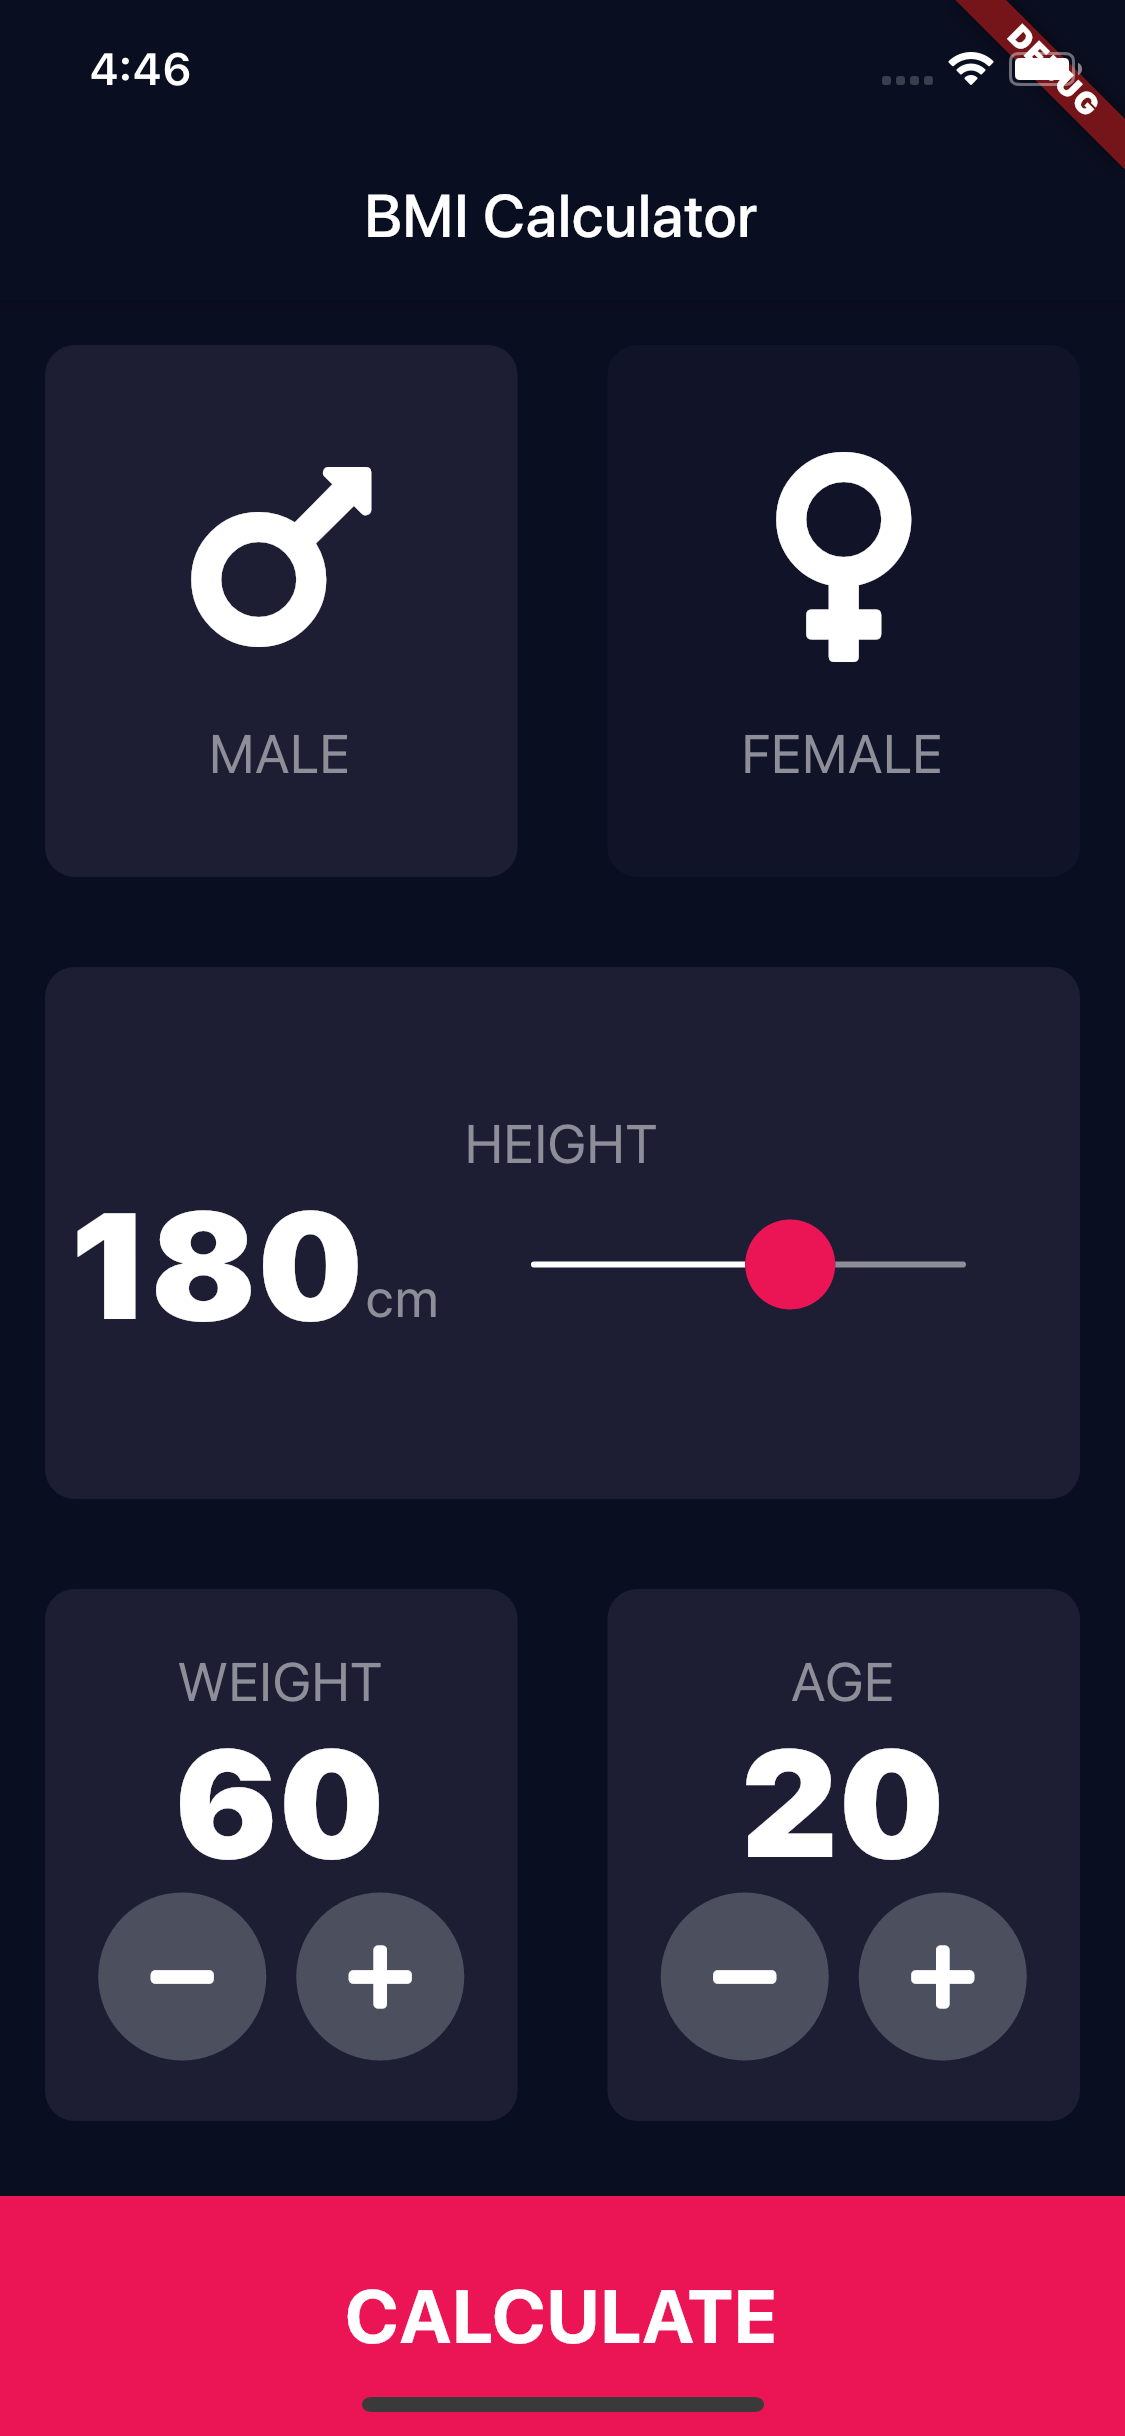
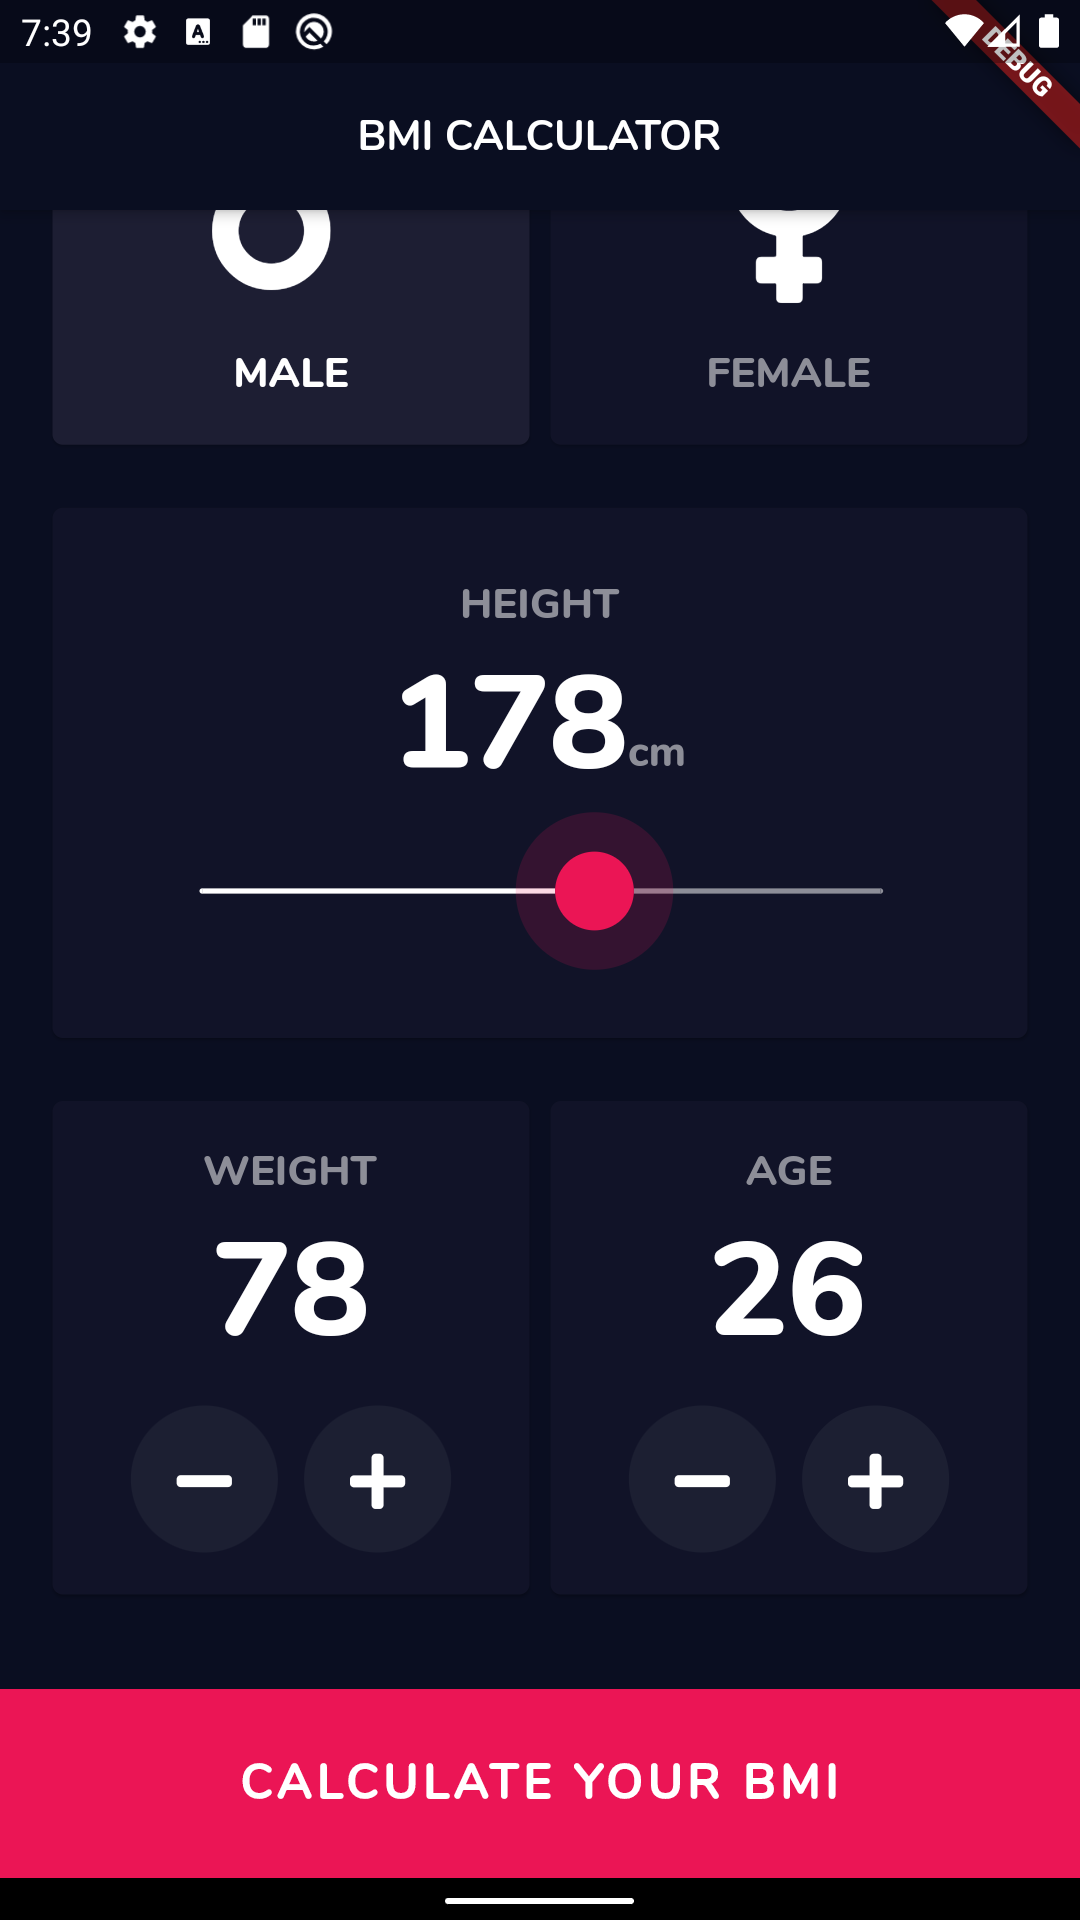
Update ResultsPage layout. Small spacing fixes in InputPage.

diff --git a/lib/screens/results_page.dart b/lib/screens/results_page.dart
@@ -23,50 +23,82 @@ class ResultsPage extends StatelessWidget {
           style: kAppBarTextStyle,
         ),
       ),
-      body: Column(
-        children: <Widget>[
-          Expanded(
-            child: Container(
-              padding: EdgeInsets.all(15.0),
+      body: SingleChildScrollView(
+        child: Column(
+          children: <Widget>[
+            Container(
+              padding: EdgeInsets.all(16.0),
               alignment: Alignment.bottomLeft,
-              child: Text(
-                'Your Result',
-                style: kTitleTextStyle,
+              child: Padding(
+                padding: EdgeInsets.symmetric(vertical: 8.0),
+                child: Text(
+                  'Your Result',
+                  style: kTitleTextStyle,
+                ),
               ),
             ),
-          ),
-          Expanded(
-            flex: 5,
-            child: ReusableCard(
-              color: kActiveCardColor,
-              cardChild: Column(
-                mainAxisAlignment: MainAxisAlignment.spaceEvenly,
-                crossAxisAlignment: CrossAxisAlignment.center,
-                children: <Widget>[
-                  Text(
-                    resultText.toUpperCase(),
-                    style: kResultTextStyle,
+            Padding(
+              padding: EdgeInsets.fromLTRB(16.0, 0.0, 16.0, 32.0),
+              child: ReusableCard(
+                color: kActiveCardColor,
+                cardChild: Padding(
+                  padding: EdgeInsets.all(16.0),
+                  child: Column(
+                    mainAxisAlignment: MainAxisAlignment.spaceEvenly,
+                    crossAxisAlignment: CrossAxisAlignment.center,
+                    children: <Widget>[
+                      Text(
+                        resultText.toUpperCase(),
+                        style: kResultTextStyle,
+                      ),
+                      Text(
+                        bmiResult,
+                        style: kBMITextStyle,
+                      ),
+                      Text(
+                        'Normal BMI range:',
+                        style: kLabelTextStyle.copyWith(
+                          fontSize: 20.0,
+                          fontFamily: 'NunitoSemiBold',
+                        ),
+                      ),
+                      SizedBox(height: 4.0),
+                      Text('18,5 - 25 kg/m2',
+                          style: kNumberTextStyle.copyWith(
+                            fontSize: 20.0,
+                            fontFamily: 'NunitoSemiBold',
+                          )),
+                      SizedBox(height: 32.0),
+                      Text(
+                        interpretation,
+                        textAlign: TextAlign.center,
+                        style: kBodyTextStyle,
+                      ),
+                      SizedBox(height: 32.0),
+                      FlatButton(
+                        color: kSaveButtonBackgroundColor,
+                        padding: EdgeInsets.fromLTRB(50.0, 20.0, 50.0, 20.0),
+                        child: Text('SAVE RESULT',
+                            style: TextStyle(
+                                color: Colors.white,
+                                fontWeight: FontWeight.w800,
+                                letterSpacing: 1.2,
+                                fontFamily: 'Nunito')),
+                        onPressed: () {},
+                      )
+                    ],
                   ),
-                  Text(
-                    bmiResult,
-                    style: kBMITextStyle,
-                  ),
-                  Text(
-                    interpretation,
-                    textAlign: TextAlign.center,
-                    style: kBodyTextStyle,
-                  ),
-                ],
+                ),
               ),
             ),
-          ),
-          BottomButton(
-            buttonTitle: 'RE-CALCULATE',
-            onTap: () {
-              Navigator.pop(context);
-            },
-          ),
-        ],
+          ],
+        ),
+      ),
+      bottomNavigationBar: BottomButton(
+        buttonTitle: 'RE-CALCULATE',
+        onTap: () {
+          Navigator.pop(context);
+        },
       ),
     );
   }

diff --git a/lib/constants.dart b/lib/constants.dart
@@ -11,6 +11,8 @@ const kInactiveTrackColor = Color(0xFF8D8E98);
 const kActiveTrackColor = Colors.white;
 const kThumbColor = kAccentColor;
 const kOverlayColor = Color(0x29EB1555);
+const kRoundedButtonBackgroundColor = Color(0xFF1C1F32);
+const kSaveButtonBackgroundColor = Color(0xFF181A2E);
 const kResultTextColor = Color(0xFF24D876);
 const kLabelTextColor = Color(0xFF8D8E98);
 const kActiveLabelTextColor = Colors.white;
@@ -18,26 +20,22 @@ const kInactiveLabelTextColor = kLabelTextColor;
 
 const kAppBarTextStyle = TextStyle(
   fontSize: 16.0,
+  fontWeight: FontWeight.w600,
   fontFamily: 'NunitoBold',
 );
 
 const kLabelTextStyle = TextStyle(
   fontSize: 16.0,
   color: kLabelTextColor,
-  fontFamily: 'NunitoBold',
+  fontWeight: FontWeight.w900,
+  fontFamily: 'NunitoExtraBold',
 );
 
 const kLargeButtonTextStyle = TextStyle(
   fontSize: 18.0,
   letterSpacing: 2.0,
-  fontWeight: FontWeight.bold,
+  fontWeight: FontWeight.w800,
   fontFamily: 'NunitoSemiBold',
-);
-
-const kTitleTextStyle = TextStyle(
-  fontSize: 50.0,
-  fontWeight: FontWeight.bold,
-  fontFamily: 'Nunito',
 );
 
 const kNumberTextStyle = TextStyle(
@@ -46,17 +44,24 @@ const kNumberTextStyle = TextStyle(
   fontFamily: 'NunitoExtraBold',
 );
 
+const kTitleTextStyle = TextStyle(
+  fontSize: 36.0,
+  fontWeight: FontWeight.bold,
+);
+
 const kResultTextStyle = TextStyle(
   color: kResultTextColor,
-  fontSize: 22.0,
-  fontWeight: FontWeight.bold,
+  fontSize: 18.0,
+  fontWeight: FontWeight.w900,
+  fontFamily: 'NunitoExtraBold',
 );
 
 const kBMITextStyle = TextStyle(
   fontSize: 100.0,
-  fontWeight: FontWeight.bold,
+  fontFamily: 'NunitoBold',
 );
 
 const kBodyTextStyle = TextStyle(
   fontSize: 22.0,
+  fontFamily: 'NunitoSemiBold',
 );

diff --git a/lib/screens/input_page.dart b/lib/screens/input_page.dart
@@ -20,7 +20,7 @@ class InputPage extends StatefulWidget {
 }
 
 class _InputPageState extends State<InputPage> {
-  Gender selectedGender;
+  Gender selectedGender = Gender.male;
   int height = 180;
   int weight = 60;
   int age = 20;
@@ -38,6 +38,7 @@ class _InputPageState extends State<InputPage> {
         ),
       ),
       body: new SingleChildScrollView(
+        padding: EdgeInsets.only(bottom: 16.0),
         child: Column(
           children: <Widget>[
             Padding(
@@ -161,6 +162,7 @@ class _InputPageState extends State<InputPage> {
                             weight.toString(),
                             style: kNumberTextStyle,
                           ),
+                          SizedBox(height: 10.0),
                           Row(
                             mainAxisAlignment: MainAxisAlignment.center,
                             children: <Widget>[
@@ -201,6 +203,7 @@ class _InputPageState extends State<InputPage> {
                             age.toString(),
                             style: kNumberTextStyle,
                           ),
+                          SizedBox(height: 10.0),
                           Row(
                             mainAxisAlignment: MainAxisAlignment.center,
                             children: <Widget>[
